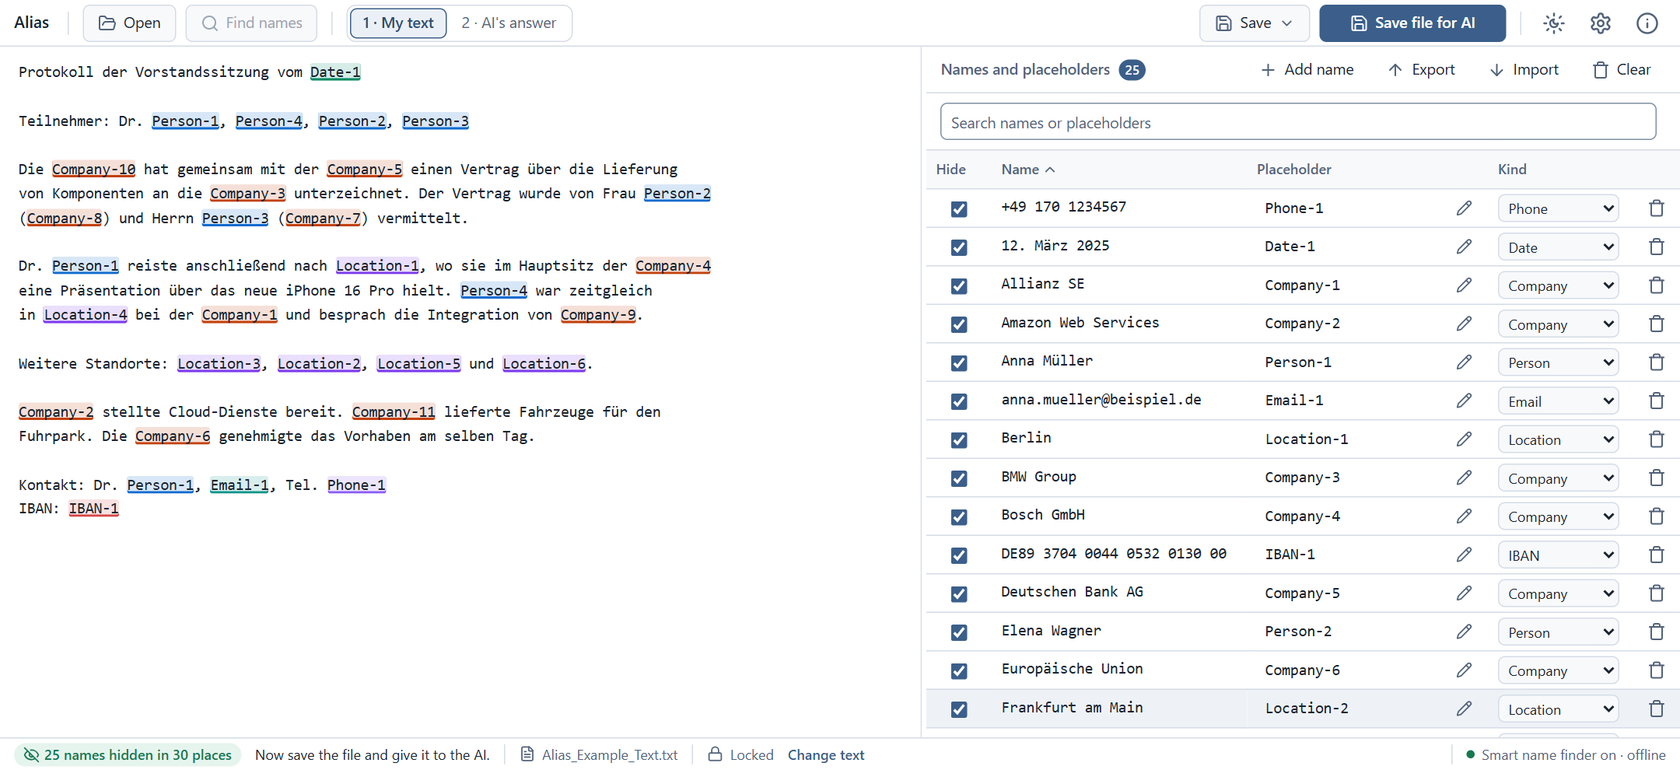
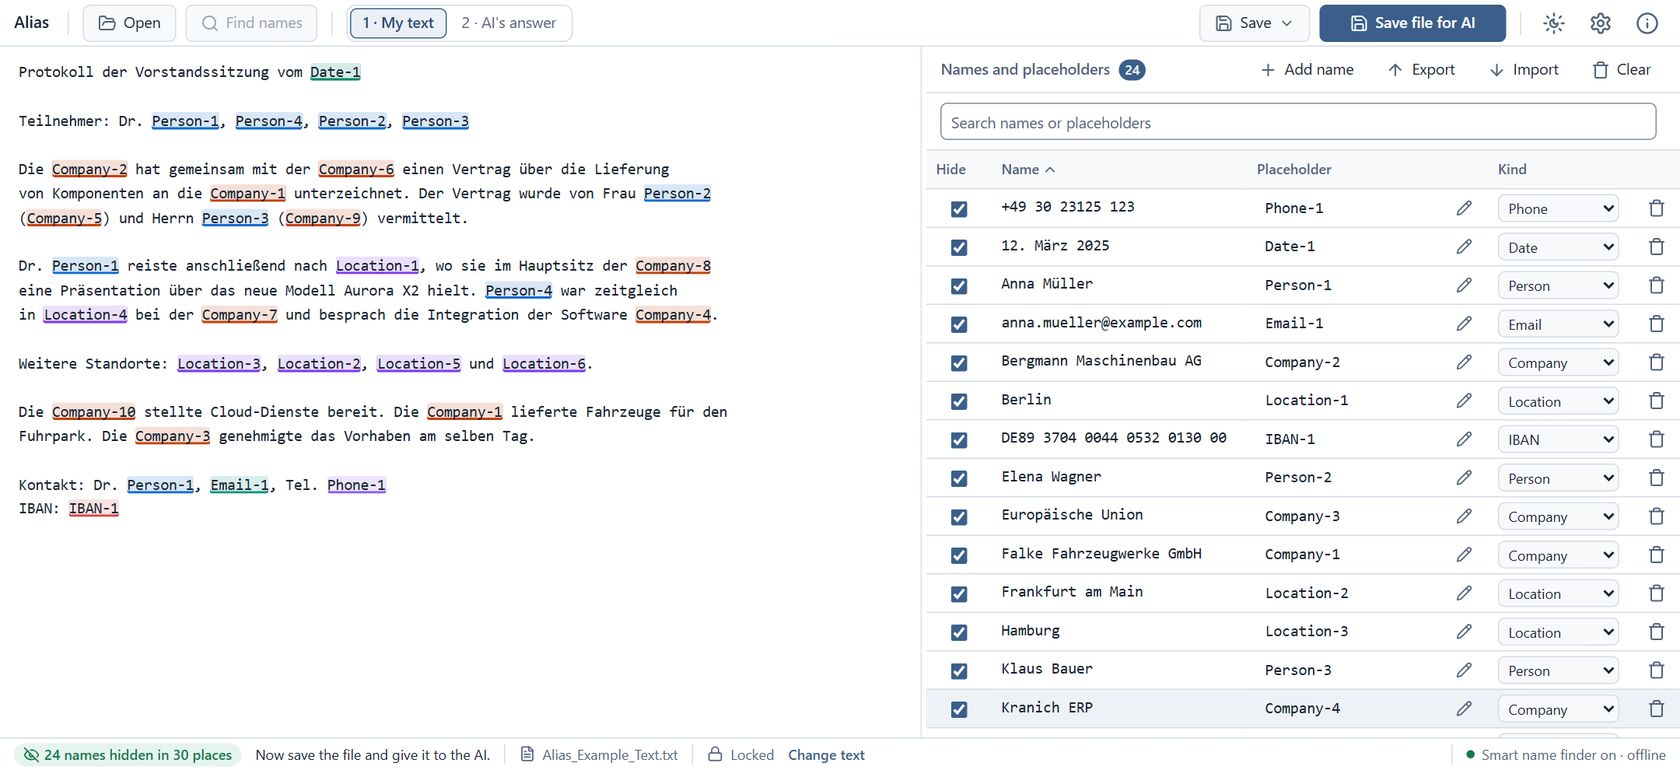
docs: fictional names, domains and phone numbers in examples and tests
Claude-Session: https://claude.ai/code/session_01VXPTw8a6a6Enjze3MuCfbL

diff --git a/src/core/detector/detector.test.ts b/src/core/detector/detector.test.ts
@@ -36,9 +36,9 @@ describe('person (rules)', () => {
     expect(p?.text).toBe('Dietmar');
   });
 
-  it('layer C: Christian Adolph Director trims role', () => {
-    const p = detectPerson('Christian Adolph Director wird benachrichtigt.').find((x) => x.text.includes('Christian'));
-    expect(p?.text).toBe('Christian Adolph');
+  it('layer C: Christian Kessler Director trims role', () => {
+    const p = detectPerson('Christian Kessler Director wird benachrichtigt.').find((x) => x.text.includes('Christian'));
+    expect(p?.text).toBe('Christian Kessler');
   });
 
   it('layer C: Thomas Project Lead trims suffix chain', () => {
@@ -49,34 +49,34 @@ describe('person (rules)', () => {
 
 describe('detectAll', () => {
   it('firma via signal word', () => has('Vertrag mit Partner Acme besprochen.', 'Acme', 'firma'));
-  it('TÜV-Rheinl.', () => has('Text mit TÜV-Rheinl. Zertifikat', 'TÜV-Rheinl.', 'firma'));
-  it('KMD Consulting', () => has('Auftrag mit KMD Consulting besprochen.', 'KMD Consulting', 'firma'));
+  it('ÜWN-Prüfst.', () => has('Text mit ÜWN-Prüfst. Zertifikat', 'ÜWN-Prüfst.', 'firma'));
+  it('XKT Consulting', () => has('Auftrag mit XKT Consulting besprochen.', 'XKT Consulting', 'firma'));
 
   it('email and iban', () => {
-    const text = 'Kontakt: mail@beispiel.de IBAN DE89370400440532013000';
-    has(text, 'mail@beispiel.de', 'email');
+    const text = 'Kontakt: mail@example.com IBAN DE89370400440532013000';
+    has(text, 'mail@example.com', 'email');
     expect(detectAll(text).some((c) => c.category === 'iban')).toBe(true);
   });
 
   it('layer C trims calendar suffixes to one entry', () => {
-    const persons = detectAll('Martin Gieswein Onboarding Day und Martin Gieswein Direct.').filter((x) => x.category === 'person');
+    const persons = detectAll('Martin Kellermann Onboarding Day und Martin Kellermann Direct.').filter((x) => x.category === 'person');
     expect(persons).toHaveLength(1);
-    expect(persons[0].text).toBe('Martin Gieswein');
+    expect(persons[0].text).toBe('Martin Kellermann');
     expect(persons[0].occurrences).toBeGreaterThanOrEqual(2);
   });
 
   it('merges Herr and plain same identity', () => {
-    const persons = detectAll('Herr Martin Gieswein traf Martin Gieswein wieder.').filter((x) => x.category === 'person');
+    const persons = detectAll('Herr Martin Kellermann traf Martin Kellermann wieder.').filter((x) => x.category === 'person');
     expect(persons).toHaveLength(1);
-    expect(persons[0].text).toBe('Martin Gieswein');
+    expect(persons[0].text).toBe('Martin Kellermann');
   });
 
   it('does not merge different people', () => {
-    expect(detectAll('Martin Gieswein und Anna Weber treffen sich.').filter((x) => x.category === 'person')).toHaveLength(2);
+    expect(detectAll('Martin Kellermann und Anna Weber treffen sich.').filter((x) => x.category === 'person')).toHaveLength(2);
   });
 
   it('no crash with multibyte text before phone number', () => {
-    expect(() => detectAll('ü'.repeat(25) + 'x'.repeat(98) + ' 0170123456789')).not.toThrow();
+    expect(() => detectAll('ü'.repeat(25) + 'x'.repeat(98) + ' 03023125123')).not.toThrow();
   });
 
   it('gold: geburtsdatum feature', () => {
@@ -105,25 +105,25 @@ describe('surnames standing alone', () => {
   });
 
   it('title and plain form of the same full name are still merged', () => {
-    const persons = detectAll('Herr Martin Gieswein traf Martin Gieswein.').filter((c) => c.category === 'person');
-    expect(persons.map((p) => p.text)).toEqual(['Martin Gieswein']);
+    const persons = detectAll('Herr Martin Kellermann traf Martin Kellermann.').filter((c) => c.category === 'person');
+    expect(persons.map((p) => p.text)).toEqual(['Martin Kellermann']);
   });
 });
 
 describe('phone numbers', () => {
   it('do not run across line or cell breaks', () => {
     const tel = (t: string) => detectAll(t).filter((c) => c.category === 'telefon').map((c) => c.text);
-    expect(tel('Tel. +49 30 700 118 0\n2 Exemplare')).toEqual(['+49 30 700 118 0']);
-    expect(tel('Tel.\t+49 30 700118-0\t12')).toEqual(['+49 30 700118-0']);
-    expect(tel('Mobil: 0170 123 45 67')).toEqual(['0170 123 45 67']);
+    expect(tel('Tel. +49 30 23125 100\n2 Exemplare')).toEqual(['+49 30 23125 100']);
+    expect(tel('Tel.\t+49 30 23125-100\t12')).toEqual(['+49 30 23125-100']);
+    expect(tel('Mobil: 040 669 69 123')).toEqual(['040 669 69 123']);
   });
 });
 
 describe('tabular text (Excel/CSV)', () => {
   it('names and companies do not span cells or rows', () => {
-    const text = '=== Sheet: Kunden ===\nName\tFirma\tBetrag\nAnna Weber\tAcme GmbH\t1234\nMax Mustermann\tSiemens AG\t99.5\n';
+    const text = '=== Sheet: Kunden ===\nName\tFirma\tBetrag\nAnna Weber\tAcme GmbH\t1234\nMax Mustermann\tBergmann Maschinenbau AG\t99.5\n';
     has(text, 'Acme GmbH', 'firma');
-    has(text, 'Siemens AG', 'firma');
+    has(text, 'Bergmann Maschinenbau AG', 'firma');
     has(text, 'Anna Weber', 'person');
     for (const c of detectAll(text)) expect(c.text, c.text).not.toMatch(/[\t\n]/);
   });
@@ -155,12 +155,12 @@ describe('Unicode word boundaries (JS \\b is ASCII-only)', () => {
   });
 
   it('offsets point into the original string', () => {
-    const text = 'Grüße an Frau Müller, Tel. 0170 1234567';
+    const text = 'Grüße an Frau Müller, Tel. 089 99998123';
     for (const c of detectAll(text)) {
       for (const [s, e] of c.offsets) expect(text.slice(s, e).length).toBe(e - s);
     }
     const tel = detectAll(text).find((c) => c.category === 'telefon')!;
-    expect(text.slice(...tel.offsets[0])).toBe('0170 1234567');
+    expect(text.slice(...tel.offsets[0])).toBe('089 99998123');
   });
 });
 
@@ -195,7 +195,7 @@ describe('Wortzwischenraum innerhalb von Namen (nur horizontale Leerzeichen)', (
 
 describe('Firmennamen', () => {
   it('führender Artikel gehört nicht zum Namen', () => {
-    has('Die Siemens AG liefert.', 'Siemens AG', 'firma');
+    has('Die Lindenhof Versicherung AG liefert.', 'Lindenhof Versicherung AG', 'firma');
     has('Mit der Acme GmbH sprechen.', 'Acme GmbH', 'firma');
   });
   it('vollständiger Name mit Rechtsform schlägt Orts-Gazetteer und Marke', () => {
@@ -203,23 +203,23 @@ describe('Firmennamen', () => {
     expect(c.map((x) => `${x.category}:${x.text}`)).toEqual(['firma:Microsoft Deutschland GmbH']);
   });
   it('Aufzählung mehrerer Firmen wird getrennt, GmbH & Co. KG bleibt zusammen', () => {
-    const t = 'Die Siemens AG und Microsoft Deutschland GmbH sowie Müller GmbH & Co. KG.';
+    const t = 'Die Bergmann Maschinenbau AG und Kranich Software GmbH sowie Müller GmbH & Co. KG.';
     const firms = detectAll(t).filter((c) => c.category === 'firma').map((c) => c.text).sort();
-    expect(firms).toEqual(['Microsoft Deutschland GmbH', 'Müller GmbH & Co. KG', 'Siemens AG']);
+    expect(firms).toEqual(['Bergmann Maschinenbau AG', 'Kranich Software GmbH', 'Müller GmbH & Co. KG']);
   });
   it('LLC als Rechtsform', () => has('Vertrag mit Acme LLC.', 'Acme LLC', 'firma'));
 });
 
 describe('Feldbezeichner sind keine Abkürzungs-Kandidaten', () => {
   it('IBAN, BIC, LLC, USt-IdNr., Tel., E-Mail, CEO', () => {
-    const t = 'IBAN: DE89370400440532013000\nBIC: COBADEFFXXX\nUSt-IdNr.: DE123456789\nTel.: 089 1234567\nE-Mail: info@acme.de\nCEO, CFO, PLZ, FAX, LLC';
+    const t = 'IBAN: DE89370400440532013000\nBIC: COBADEFFXXX\nUSt-IdNr.: DE123456789\nTel.: 089 99998 123\nE-Mail: info@example.com\nCEO, CFO, PLZ, FAX, LLC';
     const c = detectAll(t);
     for (const label of ['IBAN', 'BIC', 'LLC', 'USt', 'IdNr', 'Tel', 'E-Mail', 'CEO', 'CFO', 'PLZ', 'FAX']) {
       expect(c.some((x) => x.text === label || x.text.startsWith(label + '-')), label).toBe(false);
     }
     expect(c.find((x) => x.category === 'iban')?.text).toBe('DE89370400440532013000');
   });
-  it('echte Kürzel werden weiter vorgeschlagen', () => has('Projekt mit KMD abgestimmt.', 'KMD', 'sonstiges'));
+  it('echte Kürzel werden weiter vorgeschlagen', () => has('Projekt mit XKT abgestimmt.', 'XKT', 'sonstiges'));
 });
 
 describe('Rust-Parität', () => {
@@ -238,8 +238,8 @@ describe('Rust-Parität', () => {
   });
 
   it('Telefon-Kontext: 100 Bytes Rückblick, nicht 100 Zeichen', () => {
-    const near = detectPhone('Tel. ' + 'x'.repeat(60) + ' 0170 1234567')[0];
-    const far = detectPhone('Tel. ' + 'ü'.repeat(60) + ' 0170 1234567')[0];
+    const near = detectPhone('Tel. ' + 'x'.repeat(60) + ' 030 23125123')[0];
+    const far = detectPhone('Tel. ' + 'ü'.repeat(60) + ' 030 23125123')[0];
     expect(near.confidence).toBe(0.92);
     expect(far.confidence).toBe(0.84); // 66 characters, but 126 bytes back
   });

diff --git a/src/core/sanitize.test.ts b/src/core/sanitize.test.ts
@@ -24,8 +24,8 @@ const TERMS: [string, string][] = [
   ['Erika Musterfrau', 'Person-2'], // only as author (comment, tracked change, properties) -> removed
   ['Hans Geheimnis', 'Person-3'], // deleted text, comment, sheet name
   ['Geheim GmbH', 'Company-1'], // company, template path
-  ['max.mustermann@geheim.de', 'Email-1'], // field code
-  ['erika.musterfrau@geheim.de', 'Email-2'], // only in people.xml / persons -> removed
+  ['max.mustermann@example.com', 'Email-1'], // field code
+  ['erika.musterfrau@example.com', 'Email-2'], // only in people.xml / persons -> removed
   ['Fritz Fussnote', 'Person-4'], // only in a footnote
   ['Anna Alttext', 'Person-5'], // only in the alt text
   ['Lars Link', 'Person-6'], // only in the hyperlink target
@@ -111,7 +111,7 @@ function docxFixture(): Uint8Array {
   const doc = `<?xml version="1.0" encoding="UTF-8" standalone="yes"?><w:document ${NS_W}><w:body>
 <w:p><w:r><w:t>Vertrag mit Max Mustermann von der Geheim GmbH.</w:t></w:r></w:p>
 <w:p><w:ins w:id="1" w:author="Erika Musterfrau" w:date="2026-01-01T00:00:00Z"><w:r><w:t>Eingefügt.</w:t></w:r></w:ins><w:del w:id="2" w:author="Erika Musterfrau" w:date="2026-01-01T00:00:00Z"><w:r><w:delText>Kunde Hans Geheimnis</w:delText></w:r></w:del></w:p>
-<w:p><w:r><w:fldChar w:fldCharType="begin"/></w:r><w:r><w:instrText xml:space="preserve"> HYPERLINK "mailto:max.mustermann@geheim.de" </w:instrText></w:r><w:r><w:fldChar w:fldCharType="separate"/></w:r><w:r><w:t>Kontakt</w:t></w:r><w:r><w:fldChar w:fldCharType="end"/></w:r></w:p>
+<w:p><w:r><w:fldChar w:fldCharType="begin"/></w:r><w:r><w:instrText xml:space="preserve"> HYPERLINK "mailto:max.mustermann@example.com" </w:instrText></w:r><w:r><w:fldChar w:fldCharType="separate"/></w:r><w:r><w:t>Kontakt</w:t></w:r><w:r><w:fldChar w:fldCharType="end"/></w:r></w:p>
 <w:p><w:hyperlink r:id="rId9"><w:r><w:t>Profil</w:t></w:r></w:hyperlink></w:p>
 <w:p><w:r><w:drawing><wp:inline distT="0" distB="0" distL="0" distR="0"><wp:extent cx="9525" cy="9525"/><wp:docPr id="1" name="Bild 1" descr="Foto von Anna Alttext" title="Anna Alttext"/><a:graphic><a:graphicData uri="http://schemas.openxmlformats.org/drawingml/2006/picture"><pic:pic><pic:nvPicPr><pic:cNvPr id="0" name="Anna Alttext.jpeg"/><pic:cNvPicPr/></pic:nvPicPr><pic:blipFill><a:blip r:embed="rId10"/><a:stretch><a:fillRect/></a:stretch></pic:blipFill><pic:spPr><a:xfrm><a:off x="0" y="0"/><a:ext cx="9525" cy="9525"/></a:xfrm><a:prstGeom prst="rect"><a:avLst/></a:prstGeom></pic:spPr></pic:pic></a:graphicData></a:graphic></wp:inline></w:drawing></w:r></w:p>
 <w:p><w:commentRangeStart w:id="0"/><w:r><w:t>Text</w:t></w:r><w:commentRangeEnd w:id="0"/><w:r><w:commentReference w:id="0"/></w:r><w:r><w:footnoteReference w:id="1"/></w:r></w:p>
@@ -120,7 +120,7 @@ function docxFixture(): Uint8Array {
   const comments = `<?xml version="1.0" encoding="UTF-8" standalone="yes"?><w:comments ${NS_W}><w:comment w:id="0" w:author="Erika Musterfrau" w:date="2026-01-01T00:00:00Z" w:initials="EM"><w:p><w:r><w:t>Bitte mit Hans Geheimnis klären</w:t></w:r></w:p></w:comment></w:comments>`;
   const footnotes = `<?xml version="1.0" encoding="UTF-8" standalone="yes"?><w:footnotes ${NS_W}><w:footnote w:type="separator" w:id="-1"><w:p><w:r><w:separator/></w:r></w:p></w:footnote><w:footnote w:type="continuationSeparator" w:id="0"><w:p><w:r><w:continuationSeparator/></w:r></w:p></w:footnote><w:footnote w:id="1"><w:p><w:r><w:t>Quelle: Fritz Fussnote</w:t></w:r></w:p></w:footnote></w:footnotes>`;
   const header = `<?xml version="1.0" encoding="UTF-8" standalone="yes"?><w:hdr ${NS_W}><w:p><w:r><w:t>Max Mustermann – vertraulich</w:t></w:r></w:p></w:hdr>`;
-  const people = `<?xml version="1.0" encoding="UTF-8" standalone="yes"?><w15:people xmlns:w15="http://schemas.microsoft.com/office/word/2012/wordml"><w15:person w15:author="Erika Musterfrau"><w15:presenceInfo w15:providerId="AD" w15:userId="erika.musterfrau@geheim.de"/></w15:person></w15:people>`;
+  const people = `<?xml version="1.0" encoding="UTF-8" standalone="yes"?><w15:people xmlns:w15="http://schemas.microsoft.com/office/word/2012/wordml"><w15:person w15:author="Erika Musterfrau"><w15:presenceInfo w15:providerId="AD" w15:userId="erika.musterfrau@example.com"/></w15:person></w15:people>`;
   const settings = `<?xml version="1.0" encoding="UTF-8" standalone="yes"?><w:settings ${NS_W}><w:attachedTemplate r:id="rId1"/><w:defaultTabStop w:val="708"/></w:settings>`;
   const chart = `<?xml version="1.0" encoding="UTF-8" standalone="yes"?><c:chartSpace xmlns:c="http://schemas.openxmlformats.org/drawingml/2006/chart" xmlns:a="http://schemas.openxmlformats.org/drawingml/2006/main"><c:chart><c:plotArea><c:barChart><c:ser><c:cat><c:strRef><c:f>Tabelle1!$A$2</c:f><c:strCache><c:ptCount val="1"/><c:pt idx="0"><c:v>Dora Diagramm</c:v></c:pt></c:strCache></c:strRef></c:cat><c:val><c:numRef><c:f>Tabelle1!$B$2</c:f><c:numCache><c:ptCount val="1"/><c:pt idx="0"><c:v>1234</c:v></c:pt></c:numCache></c:numRef></c:val></c:ser></c:barChart></c:plotArea></c:chart></c:chartSpace>`;
   const files: Record<string, Uint8Array> = {
@@ -182,7 +182,7 @@ function xlsxFixture(): Uint8Array {
   const drawing = `<?xml version="1.0" encoding="UTF-8" standalone="yes"?><xdr:wsDr xmlns:xdr="http://schemas.openxmlformats.org/drawingml/2006/spreadsheetDrawing" xmlns:a="http://schemas.openxmlformats.org/drawingml/2006/main"><xdr:twoCellAnchor><xdr:from><xdr:col>0</xdr:col><xdr:colOff>0</xdr:colOff><xdr:row>3</xdr:row><xdr:rowOff>0</xdr:rowOff></xdr:from><xdr:to><xdr:col>3</xdr:col><xdr:colOff>0</xdr:colOff><xdr:row>6</xdr:row><xdr:rowOff>0</xdr:rowOff></xdr:to><xdr:sp macro="" textlink=""><xdr:nvSpPr><xdr:cNvPr id="2" name="TextBox 1" descr="Anna Alttext"/><xdr:cNvSpPr txBox="1"/></xdr:nvSpPr><xdr:spPr><a:xfrm><a:off x="0" y="0"/><a:ext cx="100" cy="100"/></a:xfrm><a:prstGeom prst="rect"><a:avLst/></a:prstGeom></xdr:spPr><xdr:txBody><a:bodyPr/><a:p><a:r><a:t>Theo Textfeld</a:t></a:r></a:p></xdr:txBody></xdr:sp><xdr:clientData/></xdr:twoCellAnchor></xdr:wsDr>`;
   const comments = `<?xml version="1.0" encoding="UTF-8" standalone="yes"?><comments ${NS}><authors><author>Erika Musterfrau</author><author>tc={1B4D3F7A-0000-0000-0000-000000000002}</author></authors><commentList><comment ref="A1" authorId="0"><text><r><t>Hans Geheimnis anrufen</t></r></text></comment></commentList></comments>`;
   const vml = `<xml xmlns:v="urn:schemas-microsoft-com:vml" xmlns:o="urn:schemas-microsoft-com:office:office" xmlns:x="urn:schemas-microsoft-com:office:excel"><v:shape id="_x0000_s1025" type="#_x0000_t202" style="position:absolute;visibility:hidden"><v:textbox/><x:ClientData ObjectType="Note"><x:Row>0</x:Row><x:Column>0</x:Column></x:ClientData></v:shape></xml>`;
-  const persons = `<?xml version="1.0" encoding="UTF-8" standalone="yes"?><personList xmlns="http://schemas.microsoft.com/office/spreadsheetml/2018/threadedcomments"><person displayName="Erika Musterfrau" id="{1B4D3F7A-0000-0000-0000-000000000001}" userId="erika.musterfrau@geheim.de" providerId="AD"/></personList>`;
+  const persons = `<?xml version="1.0" encoding="UTF-8" standalone="yes"?><personList xmlns="http://schemas.microsoft.com/office/spreadsheetml/2018/threadedcomments"><person displayName="Erika Musterfrau" id="{1B4D3F7A-0000-0000-0000-000000000001}" userId="erika.musterfrau@example.com" providerId="AD"/></personList>`;
   const pivot = `<?xml version="1.0" encoding="UTF-8" standalone="yes"?><pivotCacheDefinition ${NS} r:id="rId1" recordCount="1"><cacheSource type="worksheet"><worksheetSource ref="A1:B1" sheet="Kunde Hans Geheimnis"/></cacheSource><cacheFields count="1"><cacheField name="Kunde" numFmtId="0"><sharedItems count="1"><s v="Max Mustermann"/></sharedItems></cacheField></cacheFields></pivotCacheDefinition>`;
   const wb = `<?xml version="1.0" encoding="UTF-8" standalone="yes"?><workbook ${NS} xmlns:mc="http://schemas.openxmlformats.org/markup-compatibility/2006" xmlns:x15ac="http://schemas.microsoft.com/office/spreadsheetml/2010/11/ac" mc:Ignorable="x15ac"><fileVersion appName="xl"/><mc:AlternateContent><mc:Choice Requires="x15ac"><x15ac:absPath url="C:\\Users\\max\\Geheim GmbH\\"/></mc:Choice></mc:AlternateContent><sheets><sheet name="Kunde Hans Geheimnis" sheetId="1" r:id="rId1"/><sheet name="Daten" sheetId="2" r:id="rId2"/></sheets><definedNames><definedName name="_xlnm.Print_Area" localSheetId="0">'Kunde Hans Geheimnis'!$A$1:$E$1</definedName></definedNames><pivotCaches><pivotCache cacheId="1" r:id="rId4"/></pivotCaches></workbook>`;
   return zipSync({

diff --git a/src/core/ner/ner.live.test.ts b/src/core/ner/ner.live.test.ts
@@ -17,7 +17,7 @@ const live = (globalThis as { process?: { env: Record<string, string | undefined
 describe.skipIf(!live)('NER live', () => {
   it('aligns real WordPiece tokens to the text', async () => {
     const tok = await AutoTokenizer.from_pretrained(MODEL_ID, { revision: MODEL_REVISION });
-    const text = 'Herr Jürgen Müller-Lüdenscheidt (Nordwind Logistik GmbH) wohnt in Hamburg 🙂 – Tel. 040/123.';
+    const text = 'Herr Jürgen Müller-Lüdenscheidt (Nordwind Logistik GmbH) wohnt in Hamburg 🙂 – Tel. 040/66969123.';
     const tokens = tok.tokenize(text);
     const offs = alignTokens(text, tokens);
     tokens.forEach((t, i) => {
@@ -29,16 +29,16 @@ describe.skipIf(!live)('NER live', () => {
   it('detects persons, orgs and locations with correct offsets', async () => {
     const tok = await AutoTokenizer.from_pretrained(MODEL_ID, { revision: MODEL_REVISION });
     const model = await AutoModelForTokenClassification.from_pretrained(MODEL_ID, { dtype: 'q8', revision: MODEL_REVISION });
-    const text = 'Gestern traf sich Angela Merkel mit Vertretern von Siemens in München.\n'.repeat(40);
+    const text = 'Gestern traf sich Thomas Brenner mit Vertretern der Nordwind Logistik GmbH in München.\n'.repeat(40);
     const ner = await inferEntities(tok, model, text);
     for (const c of ner) expect(text.slice(...c.offsets[0])).toBe(c.text);
     const kinds = new Set(ner.map((c) => `${c.category}:${c.text}`));
-    expect(kinds).toContain('person:Angela Merkel');
-    expect(kinds).toContain('firma:Siemens');
+    expect(kinds).toContain('person:Thomas Brenner');
+    expect(kinds).toContain('firma:Nordwind Logistik GmbH');
     expect(kinds).toContain('ort:München');
     // Whole text processed across the 512-token limit
-    expect(ner.filter((c) => c.text === 'Angela Merkel').length).toBe(40);
+    expect(ner.filter((c) => c.text === 'Thomas Brenner').length).toBe(40);
     const all = detectAll(text, ner);
-    expect(all.find((c) => c.text === 'Angela Merkel')?.occurrences).toBe(40);
+    expect(all.find((c) => c.text === 'Thomas Brenner')?.occurrences).toBe(40);
   }, 600_000);
 });

diff --git a/src/utils/highlight.test.ts b/src/utils/highlight.test.ts
@@ -5,17 +5,17 @@ import { highlightHtml, highlightSpans } from './highlight';
 
 const entries: AliasEntry[] = [
   { id: '1', original: 'Max', alias: 'Person-1', category: 'person', confirmed: true },
-  { id: '2', original: 'Siemens AG', alias: 'Firma-1', category: 'firma', confirmed: true },
+  { id: '2', original: 'Kranich AG', alias: 'Firma-1', category: 'firma', confirmed: true },
   { id: '3', original: 'Berlin', alias: 'Ort-1', category: 'ort', confirmed: false },
 ];
 
 describe('highlightSpans', () => {
   it('marks exactly what encode replaces (word boundaries, confirmed only)', () => {
-    const text = 'Max und Maximilian bei SIEMENS AG in Berlin.\n\nmax';
+    const text = 'Max und Maximilian bei KRANICH AG in Berlin.\n\nmax';
     const spans = highlightSpans(text, entries, 'encode');
     expect(spans.map(([s, e, c]) => [text.slice(s, e), c])).toEqual([
       ['Max', 'person'],
-      ['SIEMENS AG', 'firma'],
+      ['KRANICH AG', 'firma'],
       ['max', 'person'],
     ]);
     expect(substitute(text, entries, 'encode').replacements_made).toBe(spans.length);

diff --git a/src/core/detector/detector.perf.test.ts b/src/core/detector/detector.perf.test.ts
@@ -25,9 +25,9 @@ function realistic(len: number): string {
   const tpl = [
     () => `Sehr geehrte Frau ${p(LN)},\nvielen Dank für Ihre Nachricht vom ${1 + (n() % 28)}.${1 + (n() % 12)}.2024. `,
     () => `${p(FN)} ${p(LN)} von der Acme${n()} GmbH hat das Angebot über ${n()},${n() % 99} € geprüft. `,
-    () => `Kontakt: ${p(FN).toLowerCase()}${n()}@beispiel.de, Tel. 089 ${n()}${n()}, IBAN DE89370400440532013000. `,
+    () => `Kontakt: ${p(FN).toLowerCase()}${n()}@example.com, Tel. 089 99998 ${String(n() % 1000).padStart(3, '0')}, IBAN DE89370400440532013000. `,
     () => `Lieferung an ${p(LN)}straße ${1 + (n() % 200)}\n${80000 + (n() % 9999)} München\n`,
-    () => `Das Modell XR${n()} wurde mit TÜV-Rheinl. und KMD Consulting abgestimmt ("Phoenix ${n()}"). `,
+    () => `Das Modell XR${n()} wurde mit ÜWN-Prüfst. und XKT Consulting abgestimmt ("Phoenix ${n()}"). `,
     () => `Name\tFirma\tBetrag\n${p(FN)} ${p(LN)}\tNordwind${n()} AG\t${n()}\n`,
   ];
   let s = '';

diff --git a/src/core/substitute.test.ts b/src/core/substitute.test.ts
@@ -44,9 +44,9 @@ describe('findMatches', () => {
   it('Begriffe mit Satzzeichen am Rand', () => {
     expect(enc('Verein e.V. tagt', E('e.V.', 'X'))).toBe('Verein X tagt');
     expect(enc('Die Müller & Söhne GmbH', E('Müller & Söhne', 'F'))).toBe('Die F GmbH');
-    expect(enc('Prüfung TÜV-Rheinl. ok', E('TÜV-Rheinl.', 'F'))).toBe('Prüfung F ok');
+    expect(enc('Prüfung ÜWN-Prüfst. ok', E('ÜWN-Prüfst.', 'F'))).toBe('Prüfung F ok');
     expect(enc('Summe: 1.234 €.', E('1.234 €', 'B'))).toBe('Summe: B.');
-    expect(enc('Mail an max@firma.de!', E('max@firma.de', 'M'))).toBe('Mail an M!');
+    expect(enc('Mail an max@example.com!', E('max@example.com', 'M'))).toBe('Mail an M!');
     expect(enc('Betrag 21.234 €', E('1.234 €', 'B'))).toBe('Betrag 21.234 €');
   });
 

diff --git a/src/core/detector/equivalence.test.ts b/src/core/detector/equivalence.test.ts
@@ -113,7 +113,7 @@ function rng(seed: number) {
 }
 
 const CATS: Category[] = ['email', 'iban', 'telefon', 'datum', 'person', 'firma', 'produkt', 'ort', 'betrag', 'sonstiges'];
-const WORDS = ['TÜV', 'Rheinl.', 'Acme', 'GmbH', 'Anna', 'Weber', 'Herr', 'Frau', 'Dr.', 'Müller', 'ß', 'x', '---', 'KMD', 'Consulting', 'Straße', '5', 'ÖÖ'];
+const WORDS = ['ÜWN', 'Prüfst.', 'Acme', 'GmbH', 'Anna', 'Weber', 'Herr', 'Frau', 'Dr.', 'Müller', 'ß', 'x', '---', 'XKT', 'Consulting', 'Straße', '5', 'ÖÖ'];
 
 function randomCandidates(r: () => number, n: number, textLen: number): Candidate[] {
   const pick = <T,>(a: T[]) => a[Math.floor(r() * a.length)];

diff --git a/CHANGELOG.md b/CHANGELOG.md
@@ -34,7 +34,7 @@ Alias is now a **browser app**: one HTML file, `alias.html`, that runs in Edge o
 - **Replacement ignores capitalization and respects word boundaries**: "MÜLLER" is replaced by the entry "Müller"; "Max" is no longer replaced inside "Maximilian"; "Person-1" no longer matches inside "Person-10". Replacement runs in one pass, so an inserted alias is never replaced again. Highlighting uses the same matching.
 - **AI model in the browser**: the same model as before runs in a Web Worker (Transformers.js, ONNX Runtime Web), **pinned to a fixed revision**, every downloaded file checked against its SHA-256, and kept by the browser. It now reads the **whole text** in chunks; the desktop app only looked at the first 512 tokens.
 - **Detection is much faster**: 1 MB of text in about 0.4 s instead of about 2 min; long number lists (JSON, CSV) no longer freeze the app.
-- **Better detection**: names and companies no longer run across table cells or lines (Excel, CSV, Word tables); a salutation on its own line ("Frau↵Name", address blocks) is still recognized; leading articles are no longer part of company names ("Die Siemens AG" → "Siemens AG"); companies with a legal form win over place names ("Microsoft Deutschland GmbH"); several companies in a list are split; chains of titles ("Herrn Dr. …") work; phone numbers no longer run across line breaks; field labels such as IBAN, BIC, Tel., CEO are no longer suggested.
+- **Better detection**: names and companies no longer run across table cells or lines (Excel, CSV, Word tables); a salutation on its own line ("Frau↵Name", address blocks) is still recognized; leading articles are no longer part of company names ("Die Kranich AG" → "Kranich AG"); companies with a legal form win over place names ("Kranich Software GmbH" in "Kranich Software GmbH Hamburg"); several companies in a list are split; chains of titles ("Herrn Dr. …") work; phone numbers no longer run across line breaks; field labels such as IBAN, BIC, Tel., CEO are no longer suggested.
 - **Office files**: parts of the file Alias does not change are copied byte for byte, with their timestamps and compression; unusual compression in parts Alias does not need no longer breaks opening or saving; protection against zip bombs.
 - **Names and placeholders**: saved automatically after every change; placeholders must be unique and differ from the names; imports are checked strictly (size, types, duplicate IDs).
 - **Saving**: copies go through a *Save as* dialog (Edge, Chrome) or the download folder instead of being written next to the source file.
